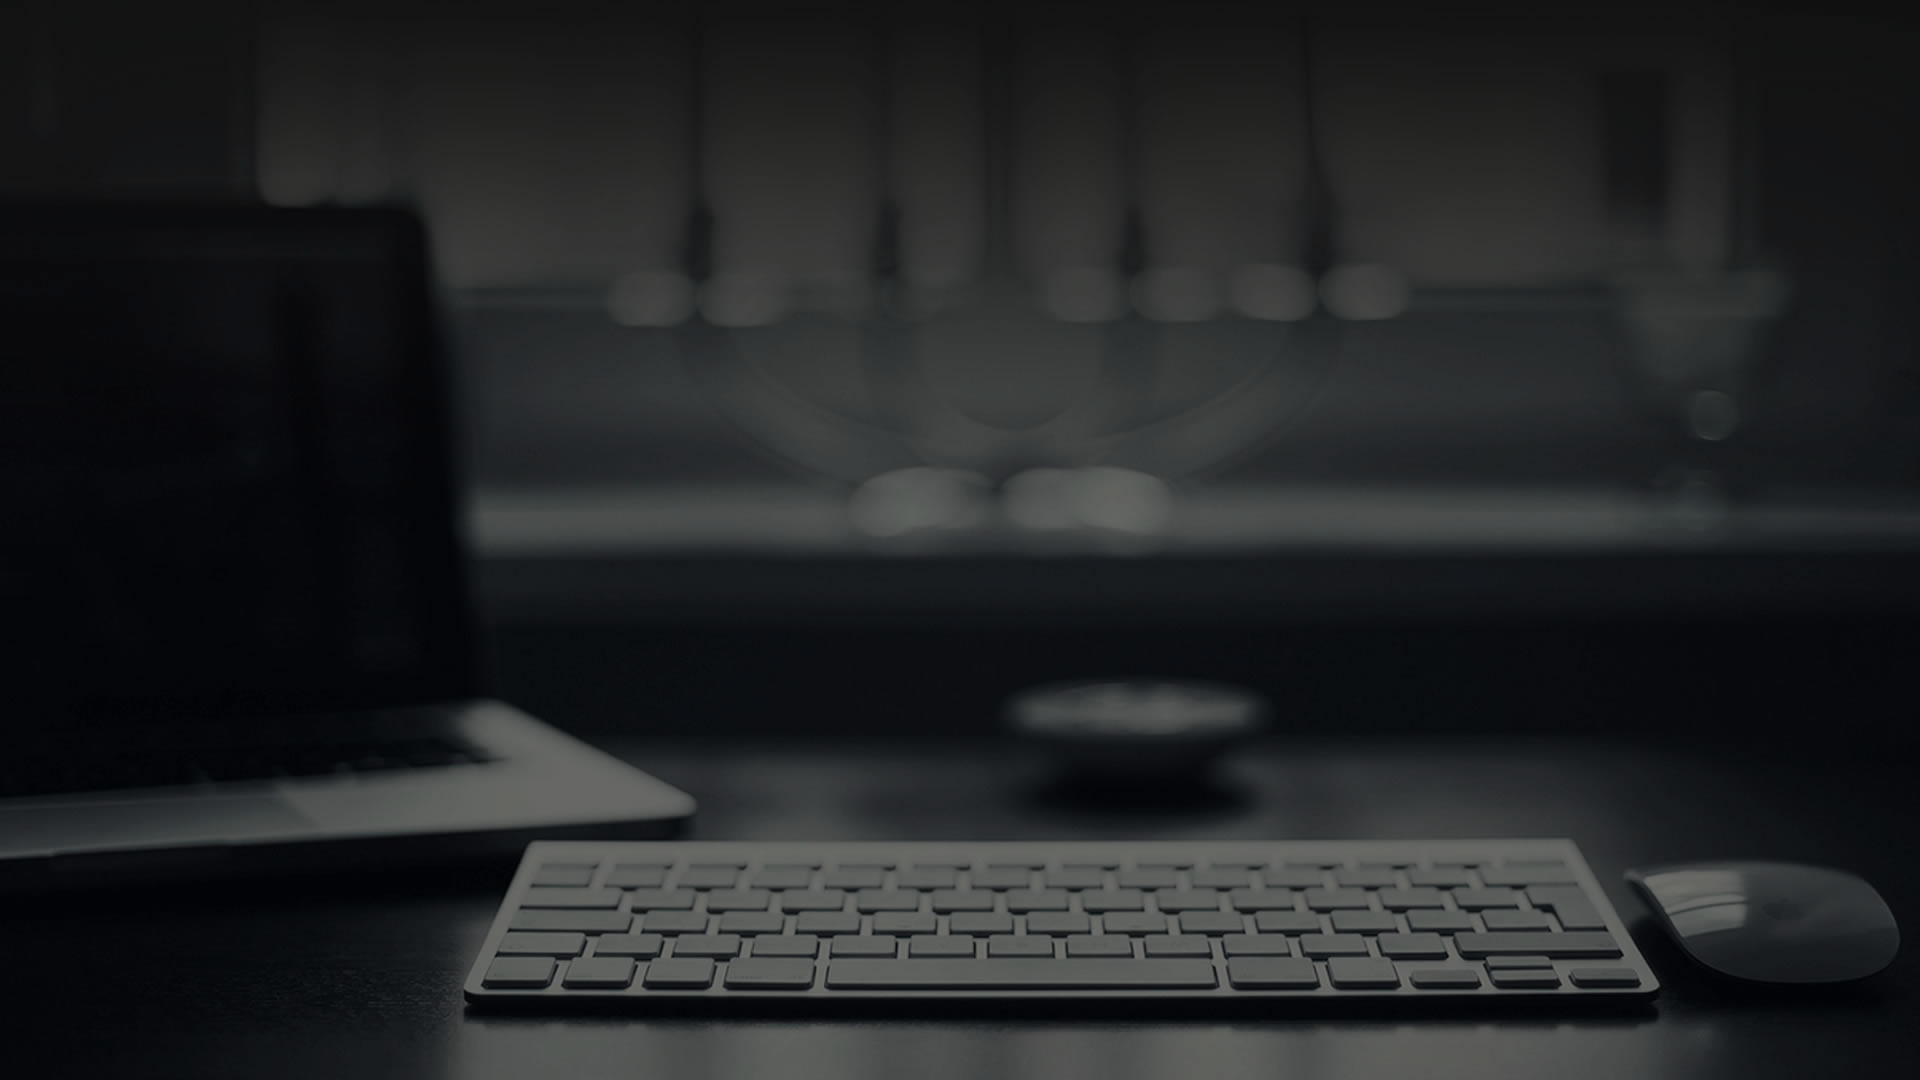
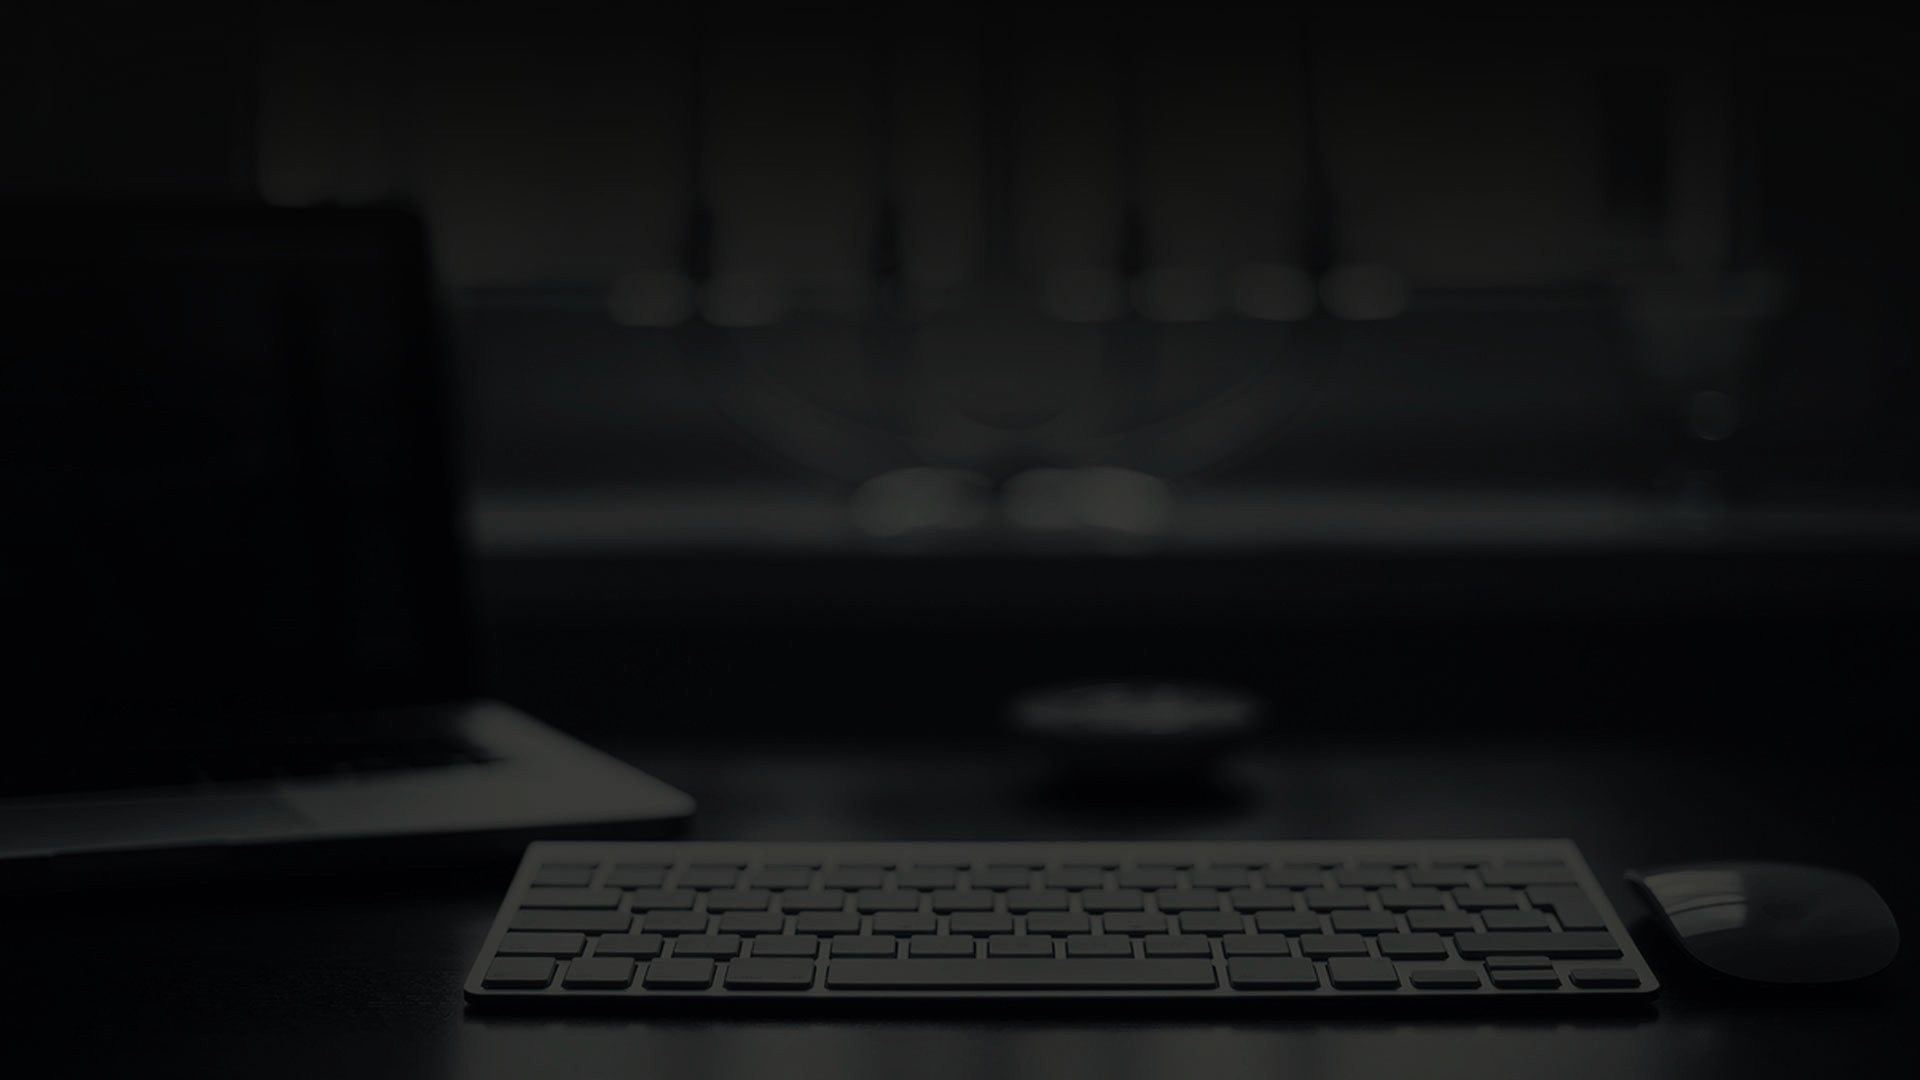
added experience

diff --git a/index.html b/index.html
@@ -105,12 +105,12 @@
           </li>
           <li>
               My expertise spans a wide spectrum of programming languages
-              including C, C++, Java and Python , which form the backbone of my passion for technology and software development
+              including C, C++, Java and Python, which form the backbone of my passion for technology and software development
           </li>
 
           <li>
             I am looking forward to collborating on projects. I invite you to connect with me to discuss
-            coding, share insights, and explore potential collaborations.
+            coding, share insights and explore potential collaborations.
           </li>
         </ol>
         <a
@@ -130,20 +130,19 @@
           <img src="img/html.png" alt="Shubham Kumar Jha" />
           <img src="img/css.png" alt="Shubham Kumar Jha" />
           <img src="img/js.png" alt="Shubham Kumar Jha" />
-          <img src="img/cpp.png" alt="Shubham Kumar Jha" />
           <img src="img/java.png" alt="Shubham Kumar Jha" />
-          <img src="img/php.png" alt="Shubham Kumar Jha" />
+          <img src="img/cpp.png" alt="Shubham Kumar Jha" />
           <img src="img/python.png" alt="Shubham Kumar Jha" />
         </div>
       </div>
 
       <div class="skills-container">
-        <h3>libraries and Frameworks</h3>
+        <h3>Frameworks and libraries</h3>
         <div class="skills-img">
+          <img src="img/spring.png" alt="Shubham Kumar Jha" />
           <img src="img/react.png" alt="Shubham Kumar Jha" />
           <img src="img/node.png" alt="Shubham Kumar Jha" />
           <img src="img/express.png" alt="Shubham Kumar Jha" />
-          <img src="img/laravel.png" alt="Shubham Kumar Jha" />
           <img src="img/bootstrap.png" alt="Shubham Kumar Jha" />
         </div>
       </div>
@@ -174,10 +173,13 @@
             </div>
           </div>
           <ul>
-            <li>Working as a Full Stack Java Developer on enterprise-grade web applications.
+            <li>Working as a Full Stack Java Developer on enterprise-grade applications.
               Building robust RESTful APIs with Spring Boot and integrating them with React-based UIs.
-              Currently part of the NJ INDIA INVEST E-Wealth Registration team, 
-              integrating third-party APIs for identity verification, compliance, and real-time client onboarding.</li>
+              Currently part of the <a href="https://www.njwealth.in/" target="_blank" style="color: inherit; text-decoration: none; cursor: pointer;"> NJ INDIA INVEST </a> E-Wealth Registration team, 
+              integrating third-party APIs for identity verification, compliance and real-time client onboarding.
+              Optimized SQL statements to improve database performance and reduce downtime. 
+              Working in cron job code and implemented Multi-Threading using Executor Service.
+              Utilized DHTML library to generate dynamic and interactive reports for seamless data analysis</li>
           </ul>
         </div>
       </div>

diff --git a/style.css b/style.css
@@ -638,7 +638,7 @@ button:hover {
   display: grid;
   grid-template-columns: repeat(auto-fit, minmax(320px, 1fr));
   gap: 2rem;
-  margin-top: 3rem;
+  margin-top: 4rem;
 }
 
 /* Experience Box */
@@ -660,7 +660,7 @@ button:hover {
 .experience-header {
   display: flex;
   align-items: center;
-  gap: 15px;
+  gap: 10px;
   margin-bottom: 15px;
 }
 
@@ -682,15 +682,16 @@ button:hover {
 .company-details h4 {
   font-size: 0.95rem;
   font-weight: 600;
-  margin: 4px 0;
+  margin: 0;
 }
 
 .exp-duration {
   font-size: 0.85rem;
   color: var(--other-color);
+  margin-top: -20px;
+  margin-bottom: 0;
 }
 
-/* Bullet Points */
 .experience-box ul {
   text-align: left;
   padding-left: 20px;
@@ -700,6 +701,17 @@ button:hover {
   margin-top: 10px;
 }
 
+@media (max-width: 720px) {
+  .company-logo {
+  width: 40px;
+  height: 40px;
+  object-fit: contain;
+  border-radius: 8px;
+}
+  .company-details h4 {
+    font-size: 0.72rem;
+  }
+}
 
 
 
